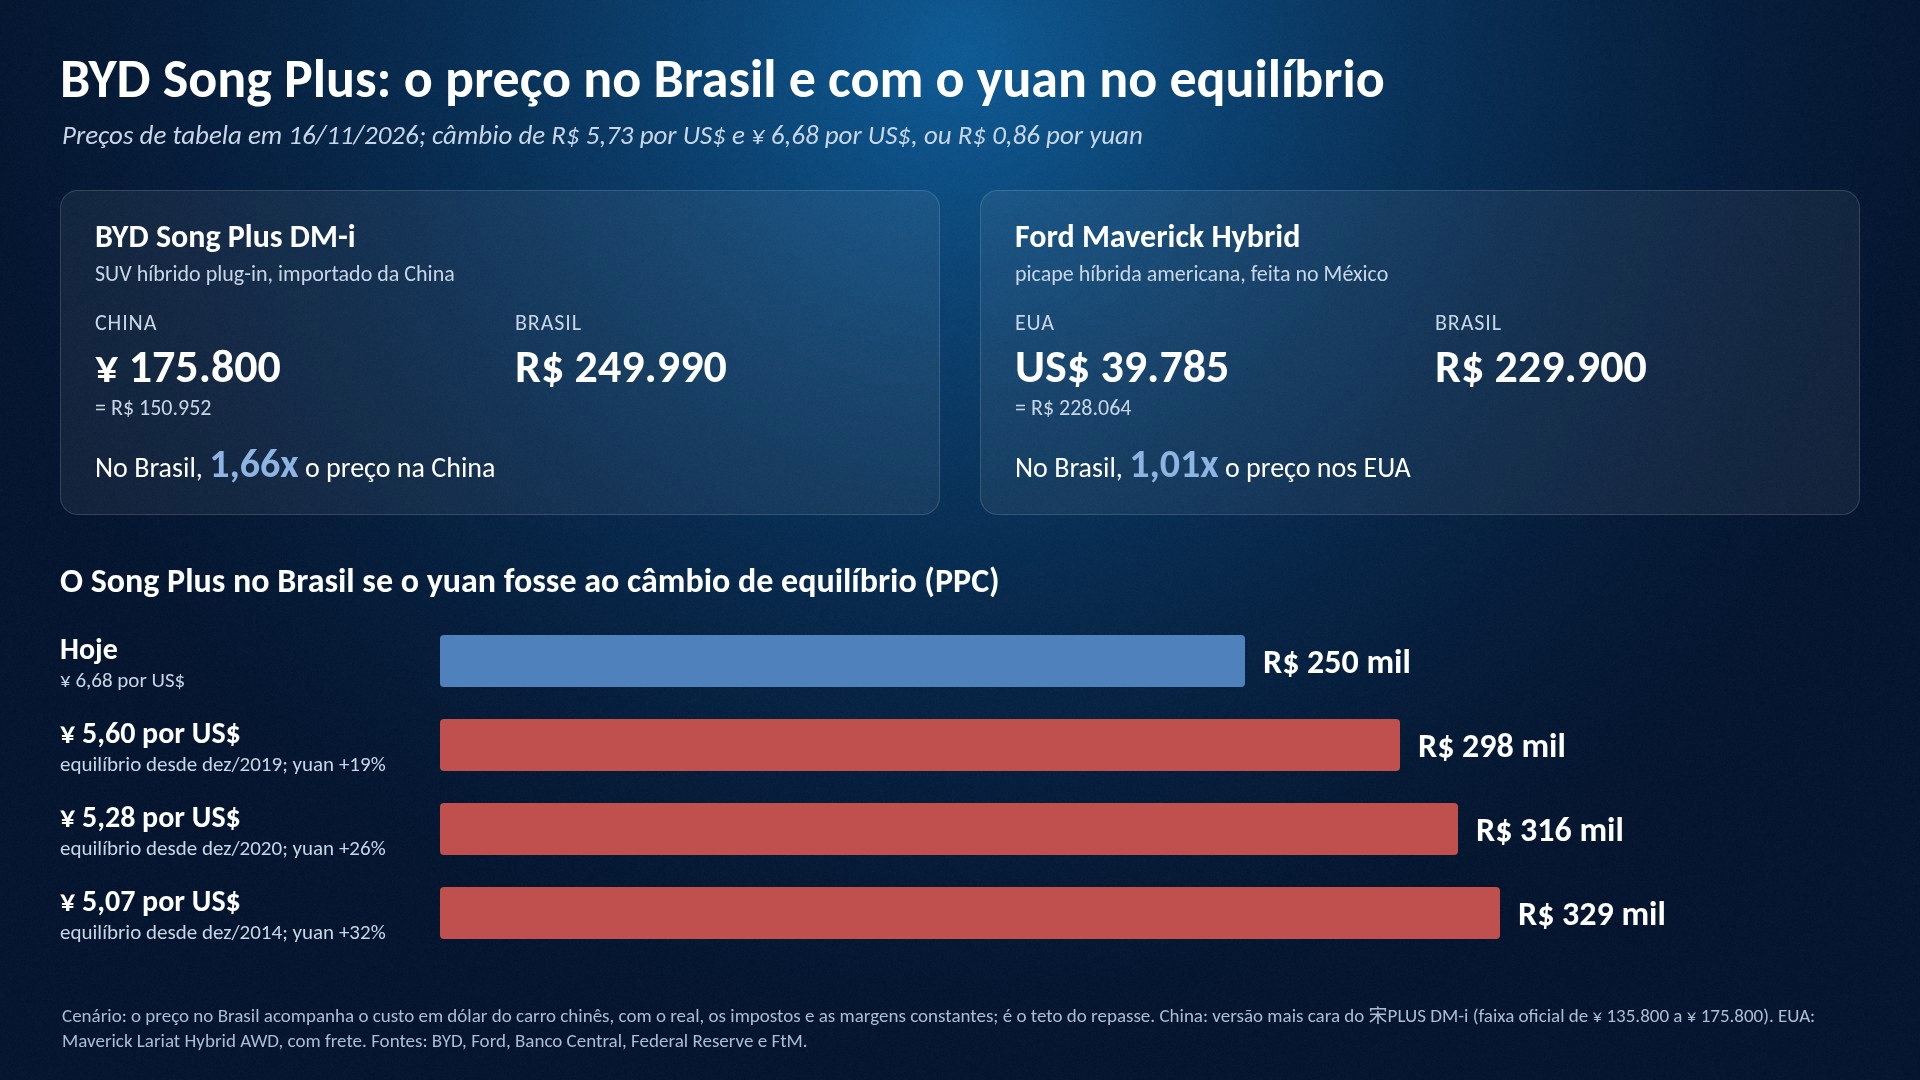
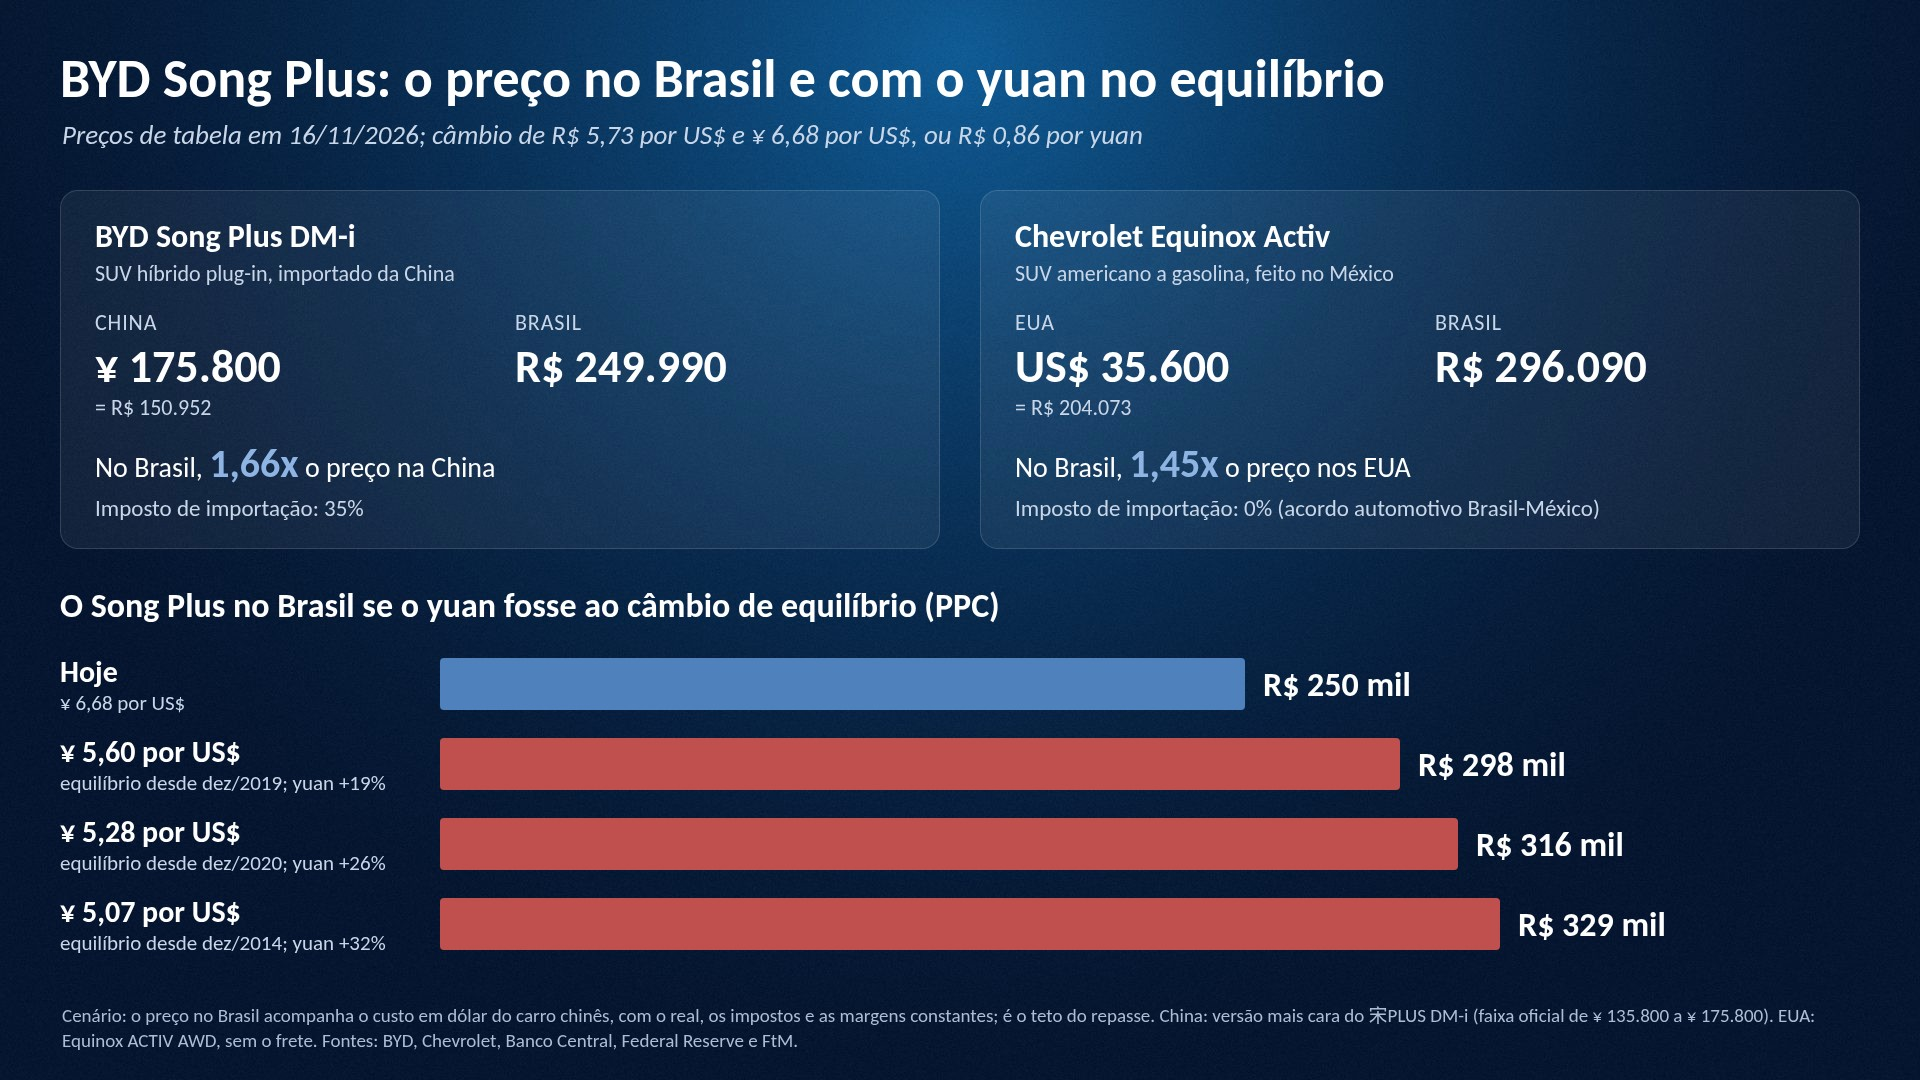
Missão: infográfico do BYD compara com o Chevrolet Equinox, e mostra o imposto de importação

diff --git a/assets/missao/byd-yuan.html b/assets/missao/byd-yuan.html
@@ -16,9 +16,10 @@ h1 { position: absolute; left: 60px; top: 46px; font-size: 54px; font-weight: 70
 .c .l .conv { font-size: 22px; color: #c9d6e8; }
 .c .mult { margin-top: 18px; font-size: 28px; }
 .c .mult b { font-size: 40px; color: #8EB4E3; }
-.cen { position: absolute; left: 60px; right: 60px; top: 560px; }
+.c .imp { margin-top: 6px; font-size: 23px; color: #c9d6e8; }
+.cen { position: absolute; left: 60px; right: 60px; top: 585px; }
 .cen h3 { font-size: 34px; font-weight: 700; margin-bottom: 18px; }
-.b { display: flex; align-items: center; height: 84px; }
+.b { display: flex; align-items: center; height: 80px; }
 .b-rot { width: 380px; display: flex; flex-direction: column; }
 .b-rot b { font-size: 30px; }
 .b-rot span { font-size: 21px; color: #c9d6e8; }
@@ -35,16 +36,18 @@ h1 { position: absolute; left: 60px; top: 46px; font-size: 54px; font-weight: 70
       <div class="l"><p class="onde">China</p><p class="preco">¥ 175.800</p><p class="conv">= R$ 150.952</p></div>
       <div class="l"><p class="onde">Brasil</p><p class="preco">R$ 249.990</p></div>
     </div>
-    <p class="mult">No Brasil, <b>1,66x</b> o preço na China</p></div>
-  <div class="c"><h2>Ford Maverick Hybrid</h2><p class="tipo">picape híbrida americana, feita no México</p>
+    <p class="mult">No Brasil, <b>1,66x</b> o preço na China</p>
+    <p class="imp">Imposto de importação: 35%</p></div>
+  <div class="c"><h2>Chevrolet Equinox Activ</h2><p class="tipo">SUV americano a gasolina, feito no México</p>
     <div class="linhas">
-      <div class="l"><p class="onde">EUA</p><p class="preco">US$ 39.785</p><p class="conv">= R$ 228.064</p></div>
-      <div class="l"><p class="onde">Brasil</p><p class="preco">R$ 229.900</p></div>
+      <div class="l"><p class="onde">EUA</p><p class="preco">US$ 35.600</p><p class="conv">= R$ 204.073</p></div>
+      <div class="l"><p class="onde">Brasil</p><p class="preco">R$ 296.090</p></div>
     </div>
-    <p class="mult">No Brasil, <b>1,01x</b> o preço nos EUA</p></div>
+    <p class="mult">No Brasil, <b>1,45x</b> o preço nos EUA</p>
+    <p class="imp">Imposto de importação: 0% (acordo automotivo Brasil-México)</p></div>
 </div>
 <div class="cen"><h3>O Song Plus no Brasil se o yuan fosse ao câmbio de equilíbrio (PPC)</h3><div class="b"><div class="b-rot"><b>Hoje</b><span>¥ 6,68 por US$</span></div><div class="b-trilho"><div class="b-barra" style="width:805px;background:#4F81BD"></div><div class="b-val forte">R$ 250 mil</div></div></div><div class="b"><div class="b-rot"><b>¥ 5,60 por US$</b><span>equilíbrio desde dez/2019; yuan +19%</span></div><div class="b-trilho"><div class="b-barra" style="width:960px;background:#C0504D"></div><div class="b-val">R$ 298 mil</div></div></div><div class="b"><div class="b-rot"><b>¥ 5,28 por US$</b><span>equilíbrio desde dez/2020; yuan +26%</span></div><div class="b-trilho"><div class="b-barra" style="width:1018px;background:#C0504D"></div><div class="b-val">R$ 316 mil</div></div></div><div class="b"><div class="b-rot"><b>¥ 5,07 por US$</b><span>equilíbrio desde dez/2014; yuan +32%</span></div><div class="b-trilho"><div class="b-barra" style="width:1060px;background:#C0504D"></div><div class="b-val">R$ 329 mil</div></div></div></div>
 <p class="nota">Cenário: o preço no Brasil acompanha o custo em dólar do carro chinês, com o real, os impostos e as margens
 constantes; é o teto do repasse. China: versão mais cara do 宋PLUS DM-i (faixa oficial de ¥ 135.800 a ¥ 175.800).
-EUA: Maverick Lariat Hybrid AWD, com frete. Fontes: BYD, Ford, Banco Central, Federal Reserve e FtM.</p>
+EUA: Equinox ACTIV AWD, sem o frete. Fontes: BYD, Chevrolet, Banco Central, Federal Reserve e FtM.</p>
 </body></html>

diff --git a/scripts/infografico_byd.py b/scripts/infografico_byd.py
@@ -25,8 +25,8 @@ import cenario_fomc as cf                                     # noqa: E402
 DATA_PRECOS = "16/11/2026"
 BYD_BR = 249990          # BYD Song Plus DM-i 2027, tabela BYD Brasil (versão única)
 BYD_CN = 175800          # 宋PLUS DM-i 智驾版, versão mais cara (faixa oficial de ¥ 135.800 a ¥ 175.800)
-FORD_BR = 229900         # Ford Maverick Hybrid, tabela Ford Brasil desde 2/10/2026 (feita no México)
-FORD_US = 39785          # Maverick Lariat Hybrid AWD 2026, MSRP com frete
+FORD_BR = 296090         # Chevrolet Equinox Activ, preço público sugerido em out/2026 (feito no México)
+FORD_US = 35600          # Equinox ACTIV AWD 2026, MSRP sem o frete (Cars.com)
 # câmbio de equilíbrio do yuan (gráfico china-yuan-ppc, out/26), por data-base
 EQUILIBRIO = [("dez/2019", 5.60), ("dez/2020", 5.28), ("dez/2014", 5.07)]
 
@@ -49,7 +49,7 @@ def main():
     ford_us_r = FORD_US * brl
     cen = [(base, eq, cny / eq - 1, BYD_BR * cny / eq) for base, eq in EQUILIBRIO]
     print("PTAX %s: R$ %.4f; yuan %s: ¥ %.4f; R$ %.4f por yuan" % (ptax["data"], brl, dia, cny, brl_cny))
-    print("BYD: China R$ %.0f, Brasil %.2fx; Ford: EUA R$ %.0f, Brasil %.2fx"
+    print("BYD: China R$ %.0f, Brasil %.2fx; Equinox: EUA R$ %.0f, Brasil %.2fx"
           % (byd_cn_r, BYD_BR / byd_cn_r, ford_us_r, FORD_BR / ford_us_r))
     for base, eq, val, p in cen:
         print("  yuan a ¥ %.2f (%s): +%.0f%% -> R$ %.0f" % (eq, base, 100 * val, p))
@@ -85,9 +85,10 @@ h1 { position: absolute; left: 60px; top: 46px; font-size: 54px; font-weight: 70
 .c .l .conv { font-size: 22px; color: #c9d6e8; }
 .c .mult { margin-top: 18px; font-size: 28px; }
 .c .mult b { font-size: 40px; color: #8EB4E3; }
-.cen { position: absolute; left: 60px; right: 60px; top: 560px; }
+.c .imp { margin-top: 6px; font-size: 23px; color: #c9d6e8; }
+.cen { position: absolute; left: 60px; right: 60px; top: 585px; }
 .cen h3 { font-size: 34px; font-weight: 700; margin-bottom: 18px; }
-.b { display: flex; align-items: center; height: 84px; }
+.b { display: flex; align-items: center; height: 80px; }
 .b-rot { width: 380px; display: flex; flex-direction: column; }
 .b-rot b { font-size: 30px; }
 .b-rot span { font-size: 21px; color: #c9d6e8; }
@@ -104,18 +105,20 @@ h1 { position: absolute; left: 60px; top: 46px; font-size: 54px; font-weight: 70
       <div class="l"><p class="onde">China</p><p class="preco">¥ %(byd_cn)s</p><p class="conv">= R$ %(byd_cn_r)s</p></div>
       <div class="l"><p class="onde">Brasil</p><p class="preco">R$ %(byd_br)s</p></div>
     </div>
-    <p class="mult">No Brasil, <b>%(byd_mult)sx</b> o preço na China</p></div>
-  <div class="c"><h2>Ford Maverick Hybrid</h2><p class="tipo">picape híbrida americana, feita no México</p>
+    <p class="mult">No Brasil, <b>%(byd_mult)sx</b> o preço na China</p>
+    <p class="imp">Imposto de importação: 35%%</p></div>
+  <div class="c"><h2>Chevrolet Equinox Activ</h2><p class="tipo">SUV americano a gasolina, feito no México</p>
     <div class="linhas">
       <div class="l"><p class="onde">EUA</p><p class="preco">US$ %(ford_us)s</p><p class="conv">= R$ %(ford_us_r)s</p></div>
       <div class="l"><p class="onde">Brasil</p><p class="preco">R$ %(ford_br)s</p></div>
     </div>
-    <p class="mult">No Brasil, <b>%(ford_mult)sx</b> o preço nos EUA</p></div>
+    <p class="mult">No Brasil, <b>%(ford_mult)sx</b> o preço nos EUA</p>
+    <p class="imp">Imposto de importação: 0%% (acordo automotivo Brasil-México)</p></div>
 </div>
 <div class="cen"><h3>O Song Plus no Brasil se o yuan fosse ao câmbio de equilíbrio (PPC)</h3>%(barras)s</div>
 <p class="nota">Cenário: o preço no Brasil acompanha o custo em dólar do carro chinês, com o real, os impostos e as margens
 constantes; é o teto do repasse. China: versão mais cara do 宋PLUS DM-i (faixa oficial de ¥ 135.800 a ¥ 175.800).
-EUA: Maverick Lariat Hybrid AWD, com frete. Fontes: BYD, Ford, Banco Central, Federal Reserve e FtM.</p>
+EUA: Equinox ACTIV AWD, sem o frete. Fontes: BYD, Chevrolet, Banco Central, Federal Reserve e FtM.</p>
 </body></html>""" % dict(
         data=DATA_PRECOS, brl=br(brl, 2), cny=br(cny, 2), brlcny=br(brl_cny, 2),
         byd_cn=br(BYD_CN), byd_cn_r=br(byd_cn_r), byd_br=br(BYD_BR), byd_mult=br(BYD_BR / byd_cn_r, 2),
